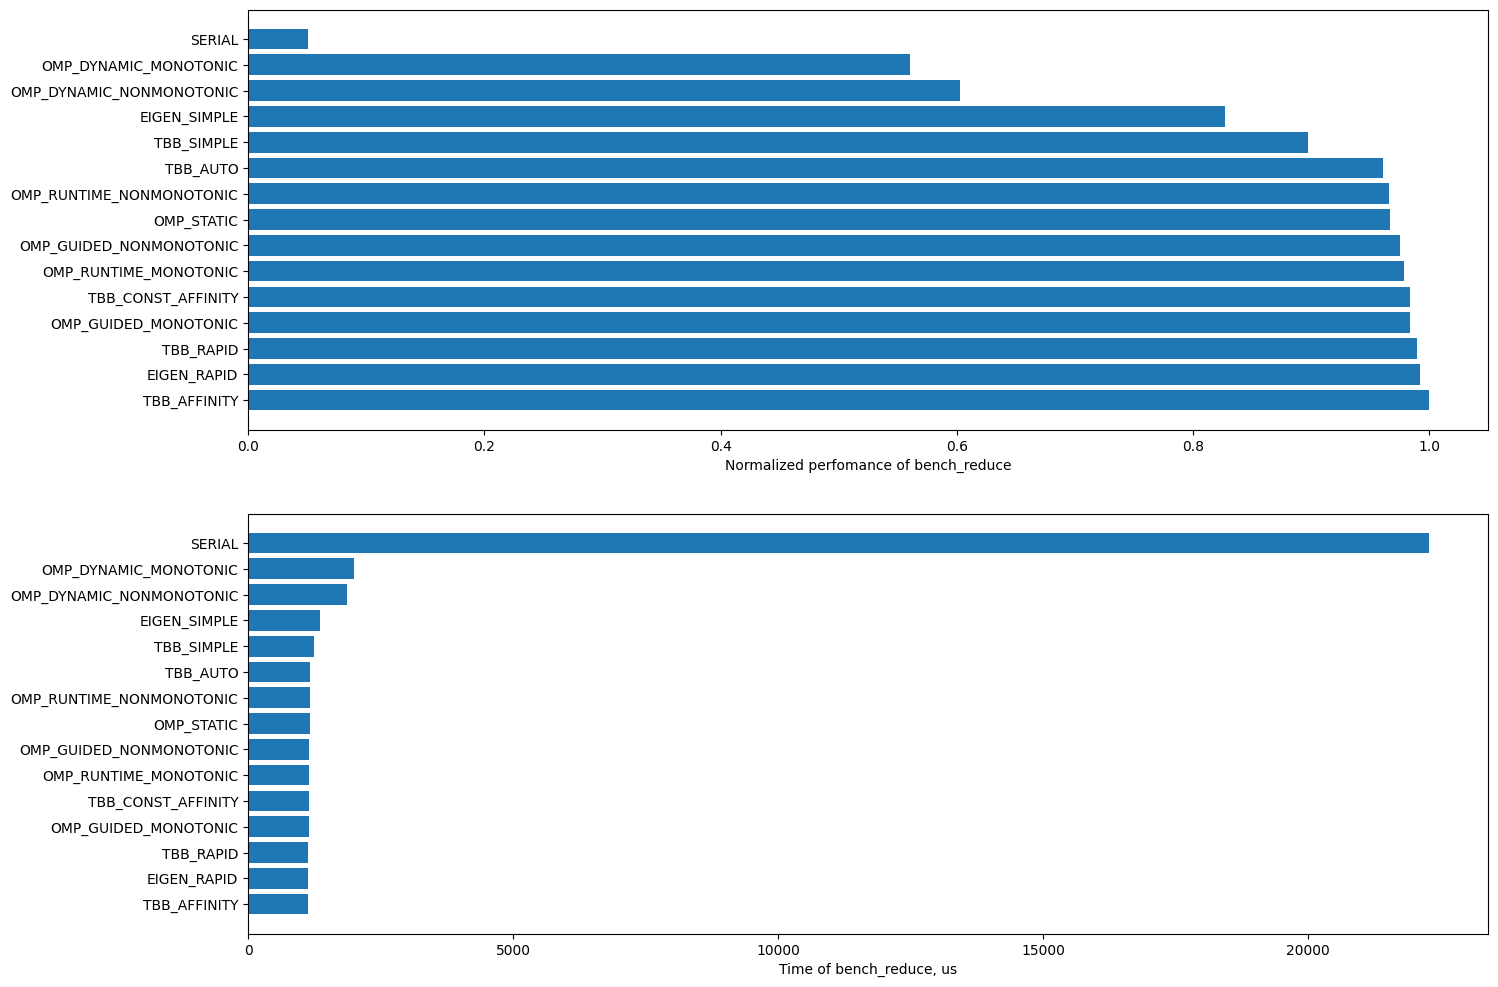
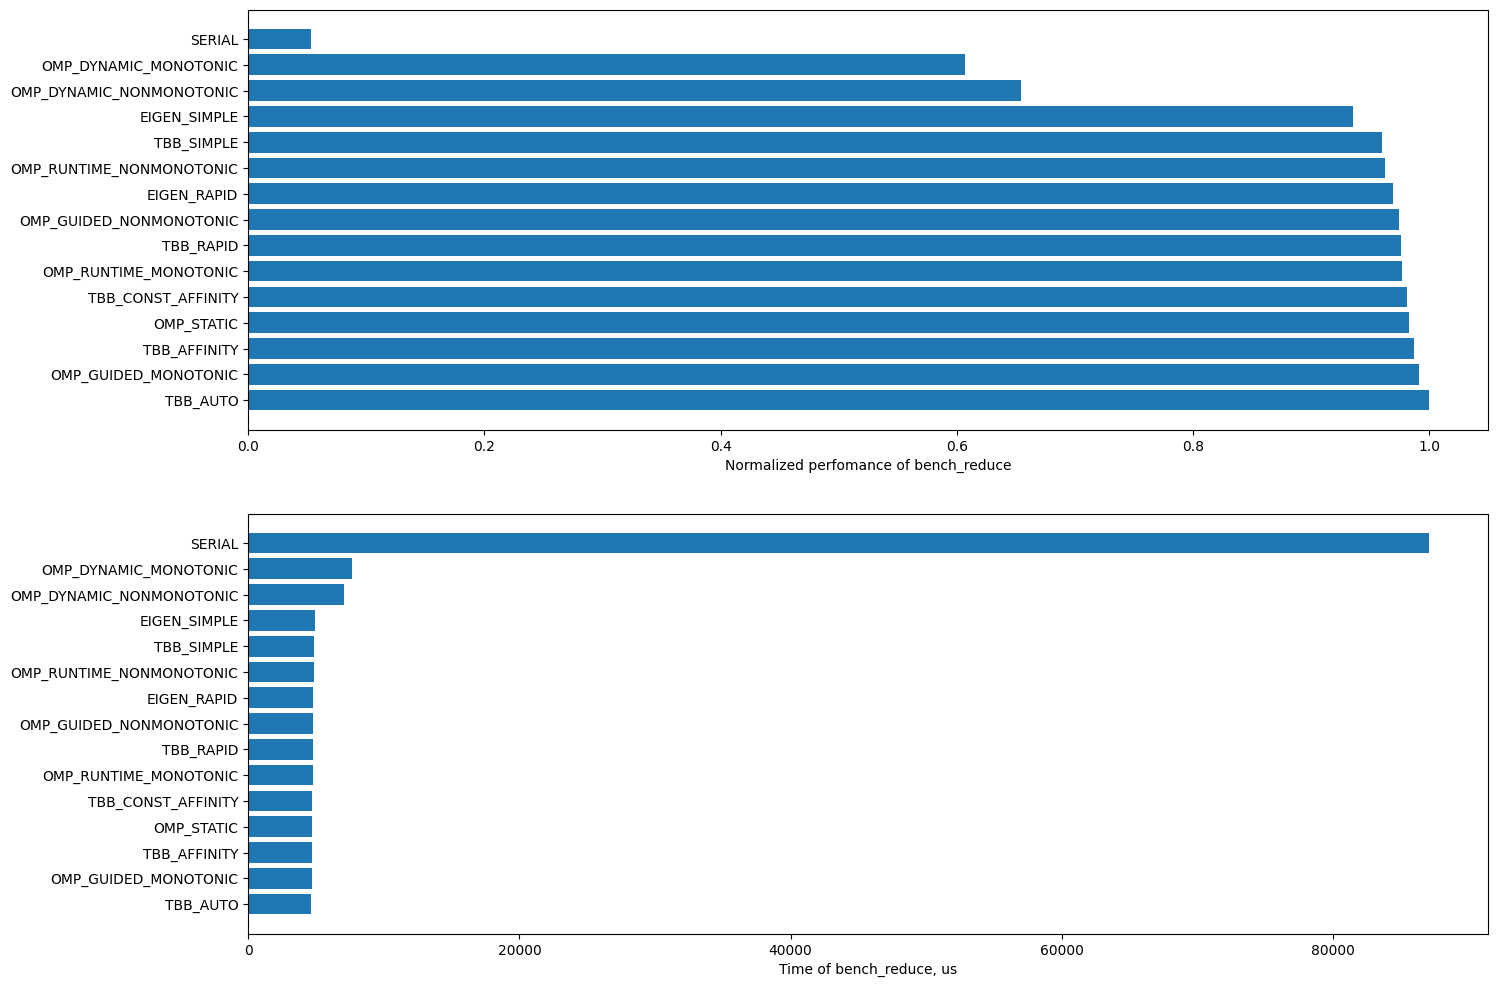
make unbalanced matrix more unbalanced

diff --git a/benchmarks/spmv.h b/benchmarks/spmv.h
@@ -1,5 +1,6 @@
 #include "../include/parallel_for.h"
 #include <cassert>
+#include <cmath>
 #include <cstddef>
 #include <random>
 #include <set>
@@ -98,24 +99,30 @@ SparseMatrixCSR<T> GenSparseMatrix(size_t n, size_t m, double density) {
   out.Dimensions.Rows = n;
   out.Dimensions.Columns = m;
   auto valueGen = std::uniform_real_distribution<T>(-1e9, 1e9);
-  auto posGen = std::uniform_int_distribution<size_t>(0, n * m - 1);
 
   std::set<std::pair<size_t, size_t>> positions;
   size_t elements_n = n * m * density;
-  while (positions.size() < elements_n) {
-    size_t pos = posGen(RandomGenerator);
-    if constexpr (Kind == SparseKind::BALANCED) {
+  if constexpr (Kind == SparseKind::BALANCED) {
+    auto posGen = std::uniform_int_distribution<size_t>(0, n * m - 1);
+    for (size_t i = 0; i < n * m * density; ++i) {
+      size_t pos = posGen(RandomGenerator);
       positions.insert({pos / m, pos % m});
-    } else if constexpr (Kind == SparseKind::UNBALANCED) {
-      auto row = pos / m;
-      auto col = pos % m;
-      positions.insert(
-          {std::max(row, col), std::min(row, col)}); // triangle matrix
-    } else {
-      // check that all possible kinds are handled
-      static_assert(Kind == SparseKind::BALANCED ||
-                    Kind == SparseKind::UNBALANCED);
     }
+  } else if constexpr (Kind == SparseKind::UNBALANCED) {
+    auto posGen = std::uniform_int_distribution<size_t>(0, m - 1);
+    for (size_t i = 0; i != n; ++i) {
+      // sum of elementsCount = density * n * m / std::log(n + 1) * (1 + 1/2 +
+      // 1/3 + ... + 1/n) ~ density * n * m
+      size_t elementsCount = density * n * m / std::log(n + 1) / (i + 1);
+      for (size_t j = 0; j != elementsCount; ++j) {
+        size_t pos = posGen(RandomGenerator);
+        positions.insert({i, pos});
+      }
+    }
+  } else {
+    // check that all possible kinds are handled
+    static_assert(Kind == SparseKind::BALANCED ||
+                  Kind == SparseKind::UNBALANCED);
   }
 
   out.RowIndex.reserve(n + 1);

diff --git a/benchmarks/bench_spmv_balanced.cpp b/benchmarks/bench_spmv_balanced.cpp
@@ -6,11 +6,13 @@
 
 using namespace SPMV;
 
+static constexpr size_t MATRIX_SIZE = 1 << 16;
+
 static void BM_SpmvBenchBalanced(benchmark::State &state) {
   InitParallel(GetNumThreads());
-  auto A = GenSparseMatrix<double, SparseKind::BALANCED>(state.range(0),
-                                                         state.range(1), 1e-3);
-  auto x = GenVector<double>(state.range(1));
+  auto A = GenSparseMatrix<double, SparseKind::BALANCED>(MATRIX_SIZE,
+                                                         MATRIX_SIZE, 1e-3);
+  auto x = GenVector<double>(MATRIX_SIZE);
   // allocate result only once
   std::vector<double> y(A.Dimensions.Rows);
   for (auto _ : state) {
@@ -18,13 +20,9 @@ static void BM_SpmvBenchBalanced(benchmark::State &state) {
   }
 }
 
-static constexpr size_t MIN_SIZE = 1 << 10;
-static constexpr size_t MAX_SIZE = 1 << 15;
-
 BENCHMARK(BM_SpmvBenchBalanced)
     ->Name("SpmvBalanced_" + GetParallelMode())
     ->UseRealTime()
-    ->Unit(benchmark::kMicrosecond)
-    ->RangePair(MIN_SIZE, MAX_SIZE, MIN_SIZE, MAX_SIZE);
+    ->Unit(benchmark::kMicrosecond);
 
 BENCHMARK_MAIN();

diff --git a/benchmarks/bench_spmv_unbalanced.cpp b/benchmarks/bench_spmv_unbalanced.cpp
@@ -5,11 +5,13 @@
 
 using namespace SPMV;
 
+static constexpr size_t MATRIX_SIZE = 1 << 16;
+
 static void BM_SpmvBenchUnbalanced(benchmark::State &state) {
   InitParallel(GetNumThreads());
-  auto A = GenSparseMatrix<double, SparseKind::UNBALANCED>(
-      state.range(0), state.range(1), 1e-3);
-  auto x = GenVector<double>(state.range(1));
+  auto A = GenSparseMatrix<double, SparseKind::UNBALANCED>(MATRIX_SIZE,
+                                                           MATRIX_SIZE, 1e-3);
+  auto x = GenVector<double>(MATRIX_SIZE);
   // allocate result only once
   std::vector<double> y(A.Dimensions.Rows);
   for (auto _ : state) {
@@ -17,13 +19,9 @@ static void BM_SpmvBenchUnbalanced(benchmark::State &state) {
   }
 }
 
-static constexpr size_t MIN_SIZE = 1 << 10;
-static constexpr size_t MAX_SIZE = 1 << 15;
-
 BENCHMARK(BM_SpmvBenchUnbalanced)
     ->Name("SpmvUnbalanced_" + GetParallelMode())
     ->UseRealTime()
-    ->Unit(benchmark::kMicrosecond)
-    ->RangePair(MIN_SIZE, MAX_SIZE, MIN_SIZE, MAX_SIZE);
+    ->Unit(benchmark::kMicrosecond);
 
 BENCHMARK_MAIN();

diff --git a/benchmarks/bench_reduce.cpp b/benchmarks/bench_reduce.cpp
@@ -4,7 +4,7 @@
 #include "../include/parallel_for.h"
 
 static constexpr size_t MIN_SIZE = 1 << 10;
-static constexpr size_t MAX_SIZE = 1 << 24;
+static constexpr size_t MAX_SIZE = 1 << 26;
 static constexpr size_t BLOCK_SIZE = 1 << 10;
 
 static void BM_ReduceBench(benchmark::State &state) {
